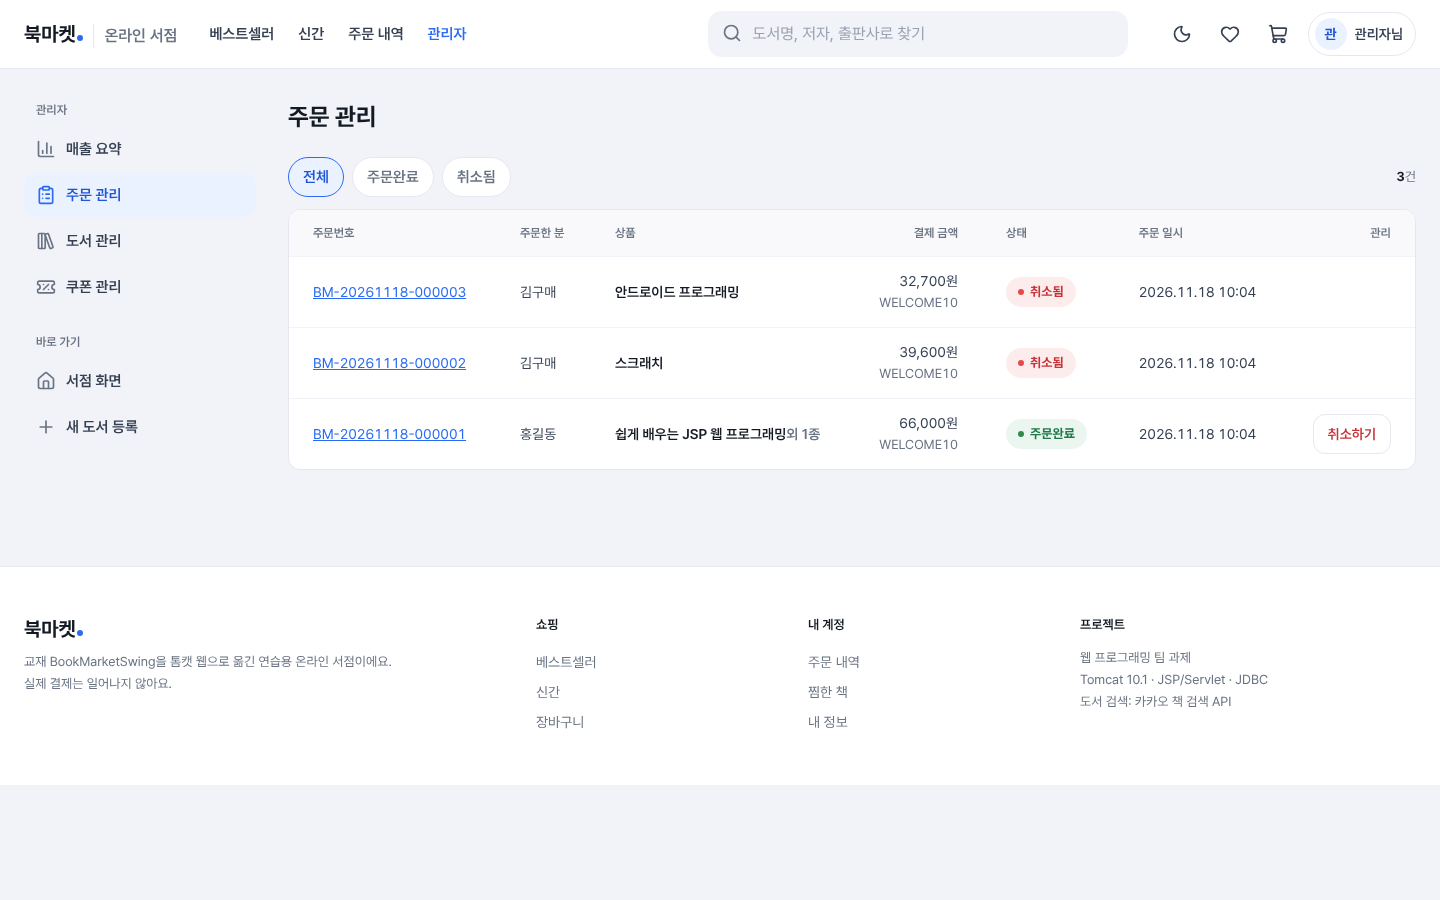
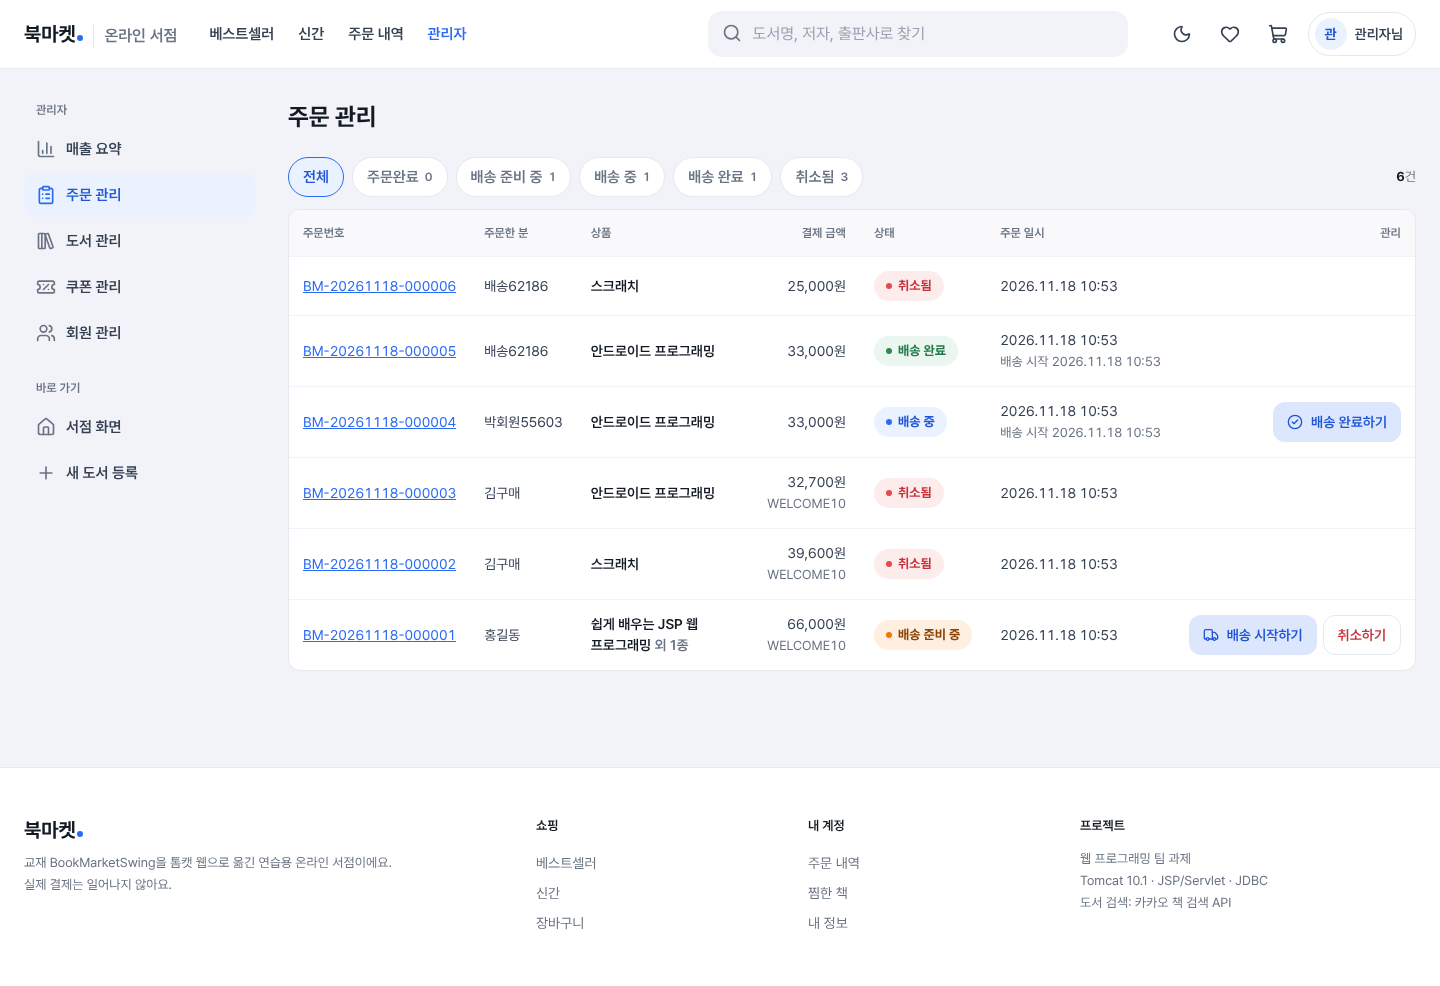
docs: 배송 단계·별점 — README·화면 캡처·ERD 갱신
Claude-Session: https://claude.ai/code/session_013sPcTRwUcxTM9ZD5R6YqTC

diff --git a/docs/src/erd.html b/docs/src/erd.html
@@ -35,9 +35,11 @@ svg.lines{position:absolute;inset:0;pointer-events:none}
 <tr><td>shipping_fee</td><td class="t">INT</td></tr>
 <tr><td>pay_amount</td><td class="t">INT</td></tr>
 <tr><td><span class="k fk">FK</span> coupon_code</td><td class="t">→ coupon, NULL</td></tr>
-<tr><td>status</td><td class="t">ORDERED / CANCELLED</td></tr>
+<tr><td>status</td><td class="t">배송 4단계 / CANCELLED</td></tr>
 <tr><td>ordered_at</td><td class="t">DATETIME</td></tr>
-<tr><td>cancelled_at</td><td class="t">DATETIME NULL</td></tr></table></div>
+<tr><td>cancelled_at</td><td class="t">DATETIME NULL</td></tr>
+<tr><td>shipped_at</td><td class="t">DATETIME NULL</td></tr>
+<tr><td>delivered_at</td><td class="t">DATETIME NULL</td></tr></table></div>
 
 <div class="box" style="left:1152px;top:140px"><h3>coupon <small>쿠폰</small></h3><table>
 <tr><td><span class="k pk">PK</span> code</td><td class="t">VARCHAR(20)</td></tr>
@@ -85,7 +87,7 @@ svg.lines{position:absolute;inset:0;pointer-events:none}
 <defs><marker id="m" viewBox="0 0 10 10" refX="9" refY="5" markerWidth="8" markerHeight="8" orient="auto"><path d="M0 0L10 5L0 10z" fill="#2B6BF3"/></marker></defs>
 <g stroke="#2B6BF3" stroke-width="2" fill="none" marker-end="url(#m)">
 <path d="M448 260 H598"/><path d="M1150 250 H1004"/>
-<path d="M800 551 V758"/><path d="M1150 800 H1004"/>
+<path d="M800 607 V758"/><path d="M1150 800 H1004"/>
 <path d="M248 551 V758"/>
 <path d="M46 420 H24 V1060 H46"/>
 <path d="M1352 827 V1210 H525 V1060 H452"/>

diff --git a/README.md b/README.md
@@ -37,6 +37,8 @@
 | <img src="docs/screens/pc-search.png" alt="검색"> | <img src="docs/screens/pc-detail.png" alt="상세"> |
 | **장바구니** | **주문 내역** |
 | <img src="docs/screens/pc-cart.png" alt="장바구니"> | <img src="docs/screens/pc-orders.png" alt="주문 내역"> |
+| **영수증 · 배송 진행** | **별점 리뷰 쓰기** |
+| <img src="docs/screens/pc-receipt-shipping.png" alt="영수증 배송 진행 막대"> | <img src="docs/screens/pc-review-stars.png" alt="별점 입력"> |
 | **로그인 (자체 + 소셜)** | **마이페이지** |
 | <img src="docs/screens/pc-login.png" alt="로그인"> | <img src="docs/screens/pc-mypage.png" alt="마이페이지"> |
 | **관리자 · 매출 요약** | **관리자 · 주문 관리** |
@@ -57,12 +59,13 @@
 **도서**
 - 카카오 책 검색(정확도순·최신순), 베스트셀러(북마켓 판매량순)·신간 탭, 페이지 나누기
 - 검색으로 본 책은 `book` 테이블에 자동 저장 → 장바구니·주문·찜·리뷰에 그대로 사용
-- 찜, 별점 리뷰(**구매한 회원만**, 1인 1개), 최근 본 책 5권
+- 찜, 별점 리뷰(**구매한 회원만**, 1인 1개, 별 5개를 눌러 고르고 점수 표시), 최근 본 책 5권
 
 **장바구니 · 주문**
 - 수량 − / + (원본에서 **비어 있던 버튼을 구현**), 배송비 자동 계산 (3만 원 이상 무료)
 - 주문서: 회원 정보 불러오기, **쿠폰 적용(회원당 1회)**, 결제 금액 요약
 - 영수증 DB 저장·다시 보기·인쇄, **주문 취소** (취소하면 쿠폰 다시 사용 가능)
+- **배송 단계**: 주문완료 → 배송 준비 중 → 배송 중 → 배송 완료. 영수증에 진행 막대, **배송이 시작되면 취소 불가**
 
 **회원**
 - 자체 회원가입·로그인 — **비밀번호 SHA-256 + salt 10,000회 암호화**
@@ -71,7 +74,8 @@
 
 **관리자** (`admin` / `admin1234`)
 - 매출 요약: 오늘·전체 매출, 주문 수, 취소율, **최근 7일 매출 그래프**, 많이 팔린 책 TOP 5
-- 주문 관리(상태 필터·취소), 도서 등록·수정·삭제, 쿠폰 관리
+- 주문 관리: 상태별 칩(건수), **한 단계씩 배송 진행**(배송 준비하기 → 배송 시작하기 → 배송 완료하기), 배송 전 주문만 취소
+- 도서 등록·수정·삭제, 쿠폰 관리
 - **회원 관리**: 이름·아이디·이메일 검색, 가입 방식·권한·상태 필터, 회원별 주문 수·구매액, 회원 상세(정보 + 주문 내역)
   - **계정 정지 / 해제** — 정지하면 로그인할 수 없고, 이미 로그인해 있던 회원도 다음 요청에서 바로 로그아웃
   - **권한 변경** (일반 ↔ 관리자) — 다시 로그인하지 않아도 바로 반영. 내 계정은 바꿀 수 없음
@@ -105,7 +109,7 @@
 | CartAddItemPage | `/books` `/books/detail` | **카카오 책 검색 API**, 베스트셀러·신간, 찜, 리뷰, 최근 본 책 |
 | **bt5 "항목수량 줄이기" (기능 없음)** | `/cart` | **수량 − / + 구현**, 1 아래로는 안 내려감 |
 | CartShippingPage | `/order` | 회원 정보 불러오기, **쿠폰 적용**, 배송비 계산 |
-| CartOrderBillPage | `/orders/receipt` `/orders` | 영수증 DB 저장, 다시 보기·인쇄, **주문 취소** |
+| CartOrderBillPage | `/orders/receipt` `/orders` | 영수증 DB 저장, 다시 보기·인쇄, **주문 취소**, 배송 진행 막대 |
 | AdminPage (도서 추가) | `/admin/*` | 매출 요약, 주문 관리, 도서·쿠폰·회원 관리 |
 | BookInIt (`book.txt`) | `BookDAO` + `book` 테이블 | JDBC, 파일 끝 빈 줄로 책이 중복되던 버그 해결 |
 | `Cart.mCartCount` (static) | 세션별 `Cart` | static이 모든 사용자에게 공유되는 문제 제거 |
@@ -126,7 +130,7 @@
 3. **DB 만들기**
    - Supabase: SQL Editor에서 [`sql/schema-postgres.sql`](sql/schema-postgres.sql) 실행
    - MySQL: Workbench에서 [`sql/schema.sql`](sql/schema.sql) 실행
-   - 이미 쓰던 DB라면 데이터를 지우지 않도록 [`sql/migrate-member-status.sql`](sql/migrate-member-status.sql)만 실행 (회원 관리 기능용 컬럼 1개 추가)
+   - 이미 쓰던 DB라면 데이터를 지우지 않도록 추가용 SQL만 실행: [`migrate-member-status.sql`](sql/migrate-member-status.sql)(회원 관리) → [`migrate-shipping.sql`](sql/migrate-shipping.sql)(배송 단계)
 4. **실행** — `Servers` 탭 → Tomcat v10.1에 `BookMarketWeb` 추가 → Start → http://localhost:8080/BookMarketWeb
 
 | 테스트 계정 · 쿠폰 | |
@@ -198,6 +202,8 @@ mysql -u root -p --default-character-set=utf8mb4 < sql\schema.sql
 | 설정을 고쳤는데 그대로임 | Eclipse가 `build/classes`의 예전 복사본을 씀 → 프로젝트 Refresh(F5) → `Project > Clean` → 톰캣 Clean → Restart |
 | `Unknown column 'status'` 등 | 최신 `schema.sql` / `schema-postgres.sql` 다시 실행 (데이터가 지워져요) |
 | 회원 관리 화면에서 `column "status" does not exist` / `Unknown column 'status'` | 기존 데이터를 지키려면 [`sql/migrate-member-status.sql`](sql/migrate-member-status.sql) 한 줄만 실행 |
+| 주문 화면에서 `column "shipped_at" does not exist` / `Unknown column 'shipped_at'` | [`sql/migrate-shipping.sql`](sql/migrate-shipping.sql) 두 줄 실행 |
+| 별점 별이 안 보이거나 모양이 깨짐 | 예전 CSS가 캐시된 것 → 브라우저에서 Ctrl+F5 (강력 새로 고침) |
 | `relation "book" does not exist` | Supabase SQL Editor에서 `schema-postgres.sql`을 실행했는지 확인 |
 | Supabase `password authentication failed` | 사용자 이름이 `postgres.프로젝트ID` 통째인지, 비밀번호가 Database Password인지 확인 |
 | Supabase 연결 시간 초과 | Session pooler 호스트·포트 5432인지 확인. 학교 와이파이가 막으면 휴대폰 테더링으로 확인 |
@@ -229,14 +235,14 @@ src/main/webapp/
   css/          tokens · base · components · pc(1024px 이상)
   js/           theme(다크 모드) · ui(토스트 · 시트 · 확인 모달)
   WEB-INF/views JSP 화면 (common/ 공통 조각, admin/ 관리자)
-sql/            schema.sql (MySQL), schema-postgres.sql (Supabase), migrate-member-status.sql (기존 DB에 회원 상태 추가)
-tests/          HTTP 종단 테스트 — 기본 63개 + 회원 관리 33개 + 카카오 검색 13개
+sql/            schema.sql (MySQL), schema-postgres.sql (Supabase), migrate-*.sql (기존 DB에 컬럼만 추가)
+tests/          HTTP 종단 테스트 — 기본 63개 + 회원 관리 33개 + 배송·별점 24개 + 카카오 검색 13개
 docs/           DESIGN.md, architecture.png, erd.png, screens/
 ```
 
 ## 테스트
 
-DB 초기화 → 톰캣 실행 → `python tests/e2e.py` (63개) → `python tests/e2e_members.py` (회원 관리 33개). 카카오 검색은 가짜 서버로 `tests/e2e_kakao.py` (13개). 자세한 방법은 [`tests/README.md`](tests/README.md).
+DB 초기화 → 톰캣 실행 → `python tests/e2e.py` (63개) → `python tests/e2e_members.py` (회원 관리 33개) → `python tests/e2e_shipping.py` (배송·별점 24개). 카카오 검색은 가짜 서버로 `tests/e2e_kakao.py` (13개). 자세한 방법은 [`tests/README.md`](tests/README.md).
 
 <details>
 <summary><b>소셜 로그인을 실제로 바꾸려면</b></summary>
